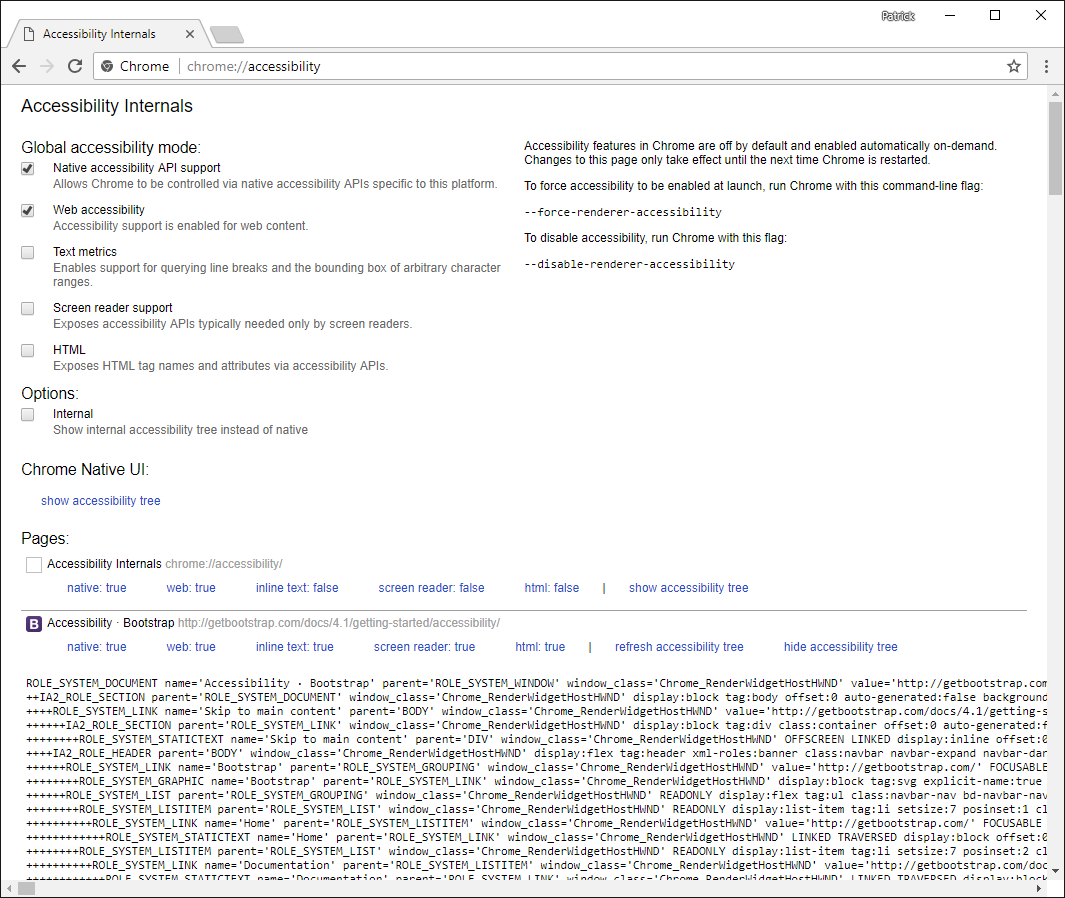
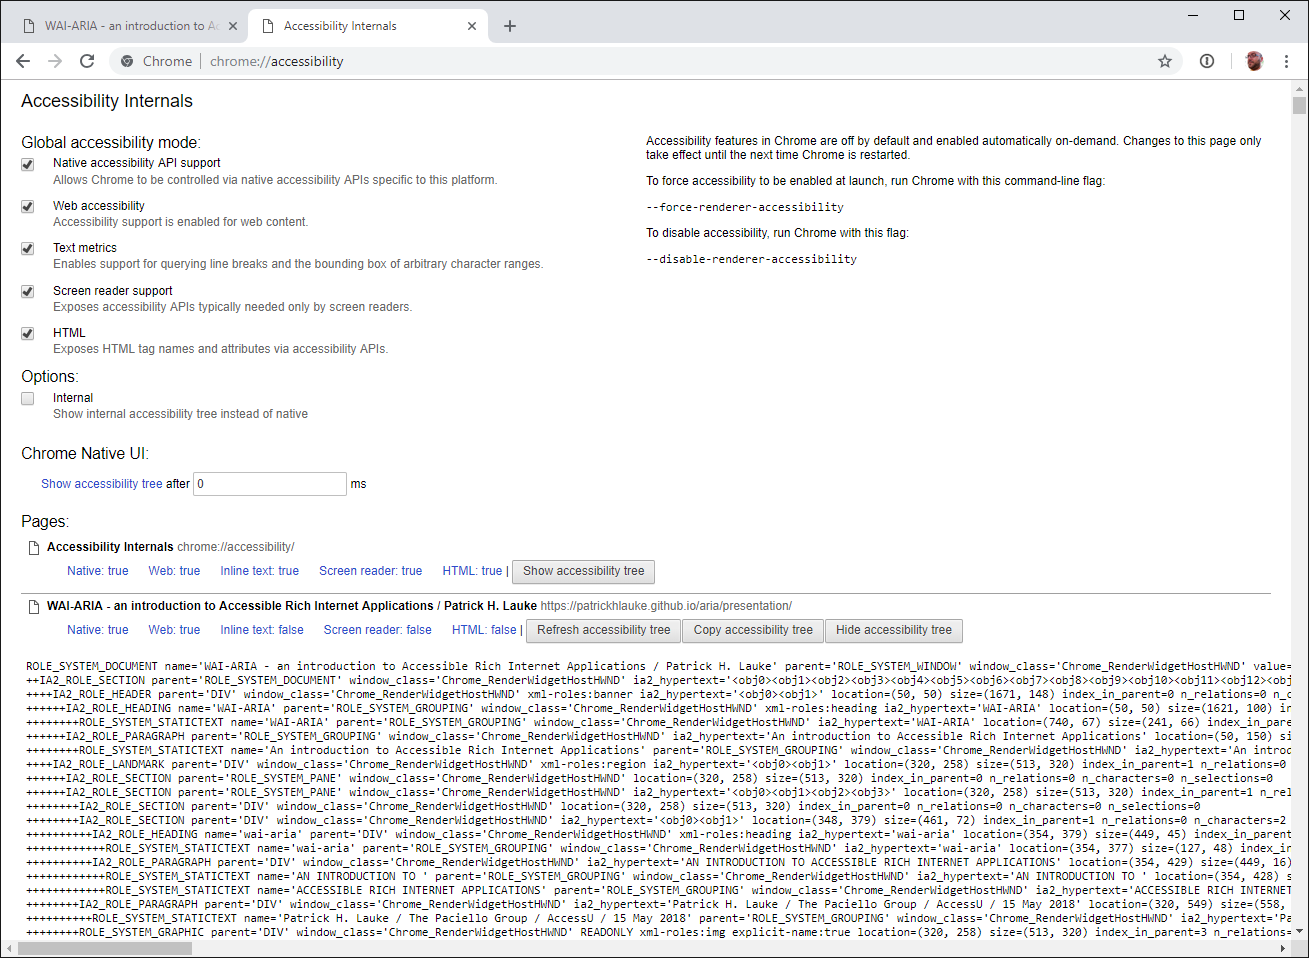
Add slide for concept of accessibility tree
- can talk at more length over this about how that's what's exposed to platform/OS
- reuse chrome://accessibility as good example of how one can view this raw
- reassure devs though that they'll likely never need to see this again...

Changed region(s): [[0.0, 0.0, 1.0, 1.0]]

diff --git a/presentation/index.html b/presentation/index.html
@@ -152,6 +152,13 @@
 <!-- -->
 
 <section class="slide"><div>
+	<img src="pictures/chrome-accessibility.png" alt="Screenshot of Chrome's chrome://accessibility internal page, showing the native accessibility tree of a web page">
+	<p>separate from the DOM, browsers have an "accessibility tree"<br><small>(see <code>chrome://accessibility</code> for an example)</small></p>
+</div></section>
+
+<!-- -->
+
+<section class="slide"><div>
 	<img src="pictures/sites/marcozehe-accessibility-apis.png" alt="">
 	<p><a target=_blank href="https://www.marcozehe.de/2013/09/07/why-accessibility-apis-matter/">Marco Zehe: Why accessibility APIs matter</a></p>
 </div></section>
